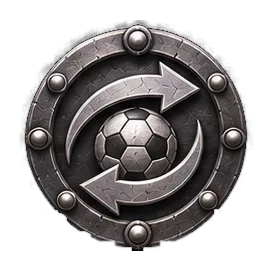
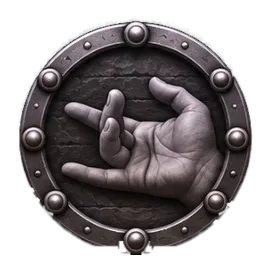
Troca os ícones de Dedinhos do treinador e Golpe de teatro pelas folhas redesenhadas

diff --git a/scripts/achievements_crop.py b/scripts/achievements_crop.py
@@ -23,6 +23,11 @@ Todos os ícones saem no mesmo quadrado e centrados nele, sem mudar de escala:
 uma linha de conquistas não salta de tamanho de um tier para o outro além do
 que o próprio desenho já cresce.
 
+Uma conquista redesenhada depois vem numa folha só dela, com os 10 tiers em
+duas linhas de 5 (ver SUBSTITUICOES). Os ícones dessa folha substituem os das
+folhas por tier e são escalados para a largura mediana das outras conquistas
+no mesmo tier, porque a folha nova desenha-os maiores.
+
 --preview escreve uma folha de contacto com tudo o que foi cortado, num fundo
 da cor do site, para ver de uma vez se algum ícone ficou com texto ou cortado.
 """
@@ -60,6 +65,16 @@ CONQUISTAS = [
     "premios-da-epoca",
 ]
 POR_LINHA = [4, 4, 4, 1]
+
+# Conquistas redesenhadas, cada uma numa folha própria com os 10 tiers por
+# ordem, da madeira ao diamante, em duas linhas de 5.
+SUBSTITUICOES = {
+    "dedinhos-do-treinador": "dedinhos",
+    "golpe-de-teatro": "golpe_teatro",
+}
+POR_LINHA_SUBSTITUICAO = [5, 5]
+# Na folha de uma conquista, a partir deste tier o ícone é crista com brilho.
+PRIMEIRA_CRISTA = 5
 
 # O fundo das folhas anda pelos 6-12 de luminância. Acima disto é desenho.
 LIMIAR = 34
@@ -125,17 +140,17 @@ class Mascara:
         return [sum(self.d[y * w + x] for y in range(y0, y1)) for x in range(x0, x1)]
 
 
-def encontrar_caixas(mascara):
-    """As 13 caixas de ícone+texto, em ordem de leitura, ou None se a grelha não bate."""
+def encontrar_caixas(mascara, por_linha=POR_LINHA):
+    """As caixas de ícone+texto, em ordem de leitura, ou None se a grelha não bate."""
     w, h = mascara.w, mascara.h
     bandas = faixas(mascara.linhas(0, w, 0, h), 6)
     # O título (ausente no ouro) é uma faixa baixa: os ícones têm mais de 200.
     bandas = [b for b in bandas if b[1] - b[0] > 150]
-    if len(bandas) != len(POR_LINHA):
+    if len(bandas) != len(por_linha):
         return None
 
     caixas = []
-    for (y0, y1), esperado in zip(bandas, POR_LINHA):
+    for (y0, y1), esperado in zip(bandas, por_linha):
         cols = faixas(mascara.colunas(0, w, y0, y1), 12)
         if len(cols) != esperado:
             return None
@@ -326,11 +341,12 @@ def recortar(folha, cinza, box, limiar, orla):
 
     icone = rgb.convert("RGBA")
     icone.putalpha(mascara_alfa)
-    bbox = icone.getbbox()
-    icone = icone.crop(bbox)
+    return icone.crop(icone.getbbox())
+
+
+def na_tela(icone):
     if icone.width > LADO or icone.height > LADO:
         sys.exit(f"ícone de {icone.size} não cabe em {LADO}x{LADO}")
-
     tela = Image.new("RGBA", (LADO, LADO), (0, 0, 0, 0))
     tela.paste(icone, ((LADO - icone.width) // 2, (LADO - icone.height) // 2))
     return tela
@@ -371,6 +387,39 @@ def cortar_folha(ficheiro):
     return icones
 
 
+def cortar_folha_de_conquista(ficheiro):
+    """Os 10 tiers de uma conquista numa folha só dela, por ordem.
+
+    Esta folha parte-se sozinha, mas mistura as duas famílias: a linha de cima
+    são discos, que se cortam como as folhas da madeira ao ouro, e a de baixo
+    cristas com brilho, que pedem o limiar alto.
+    """
+    folha = Image.open(caminho_da_folha(ficheiro)).convert("RGB")
+    cinza = folha.convert("L")
+    caixas = encontrar_caixas(Mascara(cinza, LIMIAR), POR_LINHA_SUBSTITUICAO)
+    if not caixas:
+        sys.exit(f"{ficheiro}: a folha não se parte em {POR_LINHA_SUBSTITUICAO}")
+
+    mascaras = {LIMIAR: Mascara(cinza, LIMIAR), LIMIAR_BRILHO: Mascara(cinza, LIMIAR_BRILHO)}
+    icones = []
+    for i, caixa in enumerate(caixas):
+        crista = i >= PRIMEIRA_CRISTA
+        limiar, orla, margem, margem_topo = (LIMIAR_BRILHO, ORLA_BRILHO, 0, 0) if crista else (LIMIAR, ORLA, 10, 4)
+        x0, y0, x1, _ = caixa
+        fim = separar_texto(mascaras[limiar], caixa)
+        box = (x0 - margem, max(0, y0 - margem_topo), x1 + margem, fim + 2)
+        icones.append(recortar(folha, cinza, box, limiar, orla))
+    return icones
+
+
+def ao_tamanho_das_outras(icone, outras):
+    """Escala o ícone para a largura mediana dos outros no mesmo tier."""
+    larguras = sorted(outra.width for outra in outras)
+    alvo = larguras[len(larguras) // 2]
+    escala = alvo / icone.width
+    return icone.resize((alvo, round(icone.height * escala)), Image.LANCZOS)
+
+
 def main():
     parser = argparse.ArgumentParser(description=__doc__.splitlines()[0])
     parser.add_argument("--preview", help="escreve aqui uma folha de contacto com todos os ícones")
@@ -380,11 +429,22 @@ def main():
     for ficheiro, tier in TIERS:
         icones = cortar_folha(ficheiro)
         for conquista, icone in zip(CONQUISTAS, icones):
-            pasta = os.path.join(DESTINO, conquista)
-            os.makedirs(pasta, exist_ok=True)
-            icone.save(os.path.join(pasta, tier + ".png"))
             grelha[(conquista, tier)] = icone
         print(f"{tier}: {len(icones)} ícones")
+
+    for conquista, ficheiro in SUBSTITUICOES.items():
+        icones = cortar_folha_de_conquista(ficheiro)
+        for (_, tier), icone in zip(TIERS, icones):
+            outras = [grelha[(c, tier)] for c in CONQUISTAS if c not in SUBSTITUICOES]
+            grelha[(conquista, tier)] = ao_tamanho_das_outras(icone, outras)
+        print(f"{conquista}: substituída pela folha {ficheiro}")
+
+    for (conquista, tier), icone in grelha.items():
+        tela = na_tela(icone)
+        pasta = os.path.join(DESTINO, conquista)
+        os.makedirs(pasta, exist_ok=True)
+        tela.save(os.path.join(pasta, tier + ".png"))
+        grelha[(conquista, tier)] = tela
 
     if args.preview:
         passo = LADO // 2

diff --git a/CLAUDE.md b/CLAUDE.md
@@ -525,7 +525,10 @@ scripts/achievements_crop.py` cuts them into `assets-src/achievements/<achieveme
 transparent background and the sheet's text thrown away, all on the same 272px square; then
 `build_assets.js` converts them as usual. `--preview <file>` writes a contact sheet of all 130 to check
 the cut. The crest sheets (Platina up) glow too much to split on their own, so their positions come
-from the wood sheet, which shares their layout; the gold sheet has no title and splits on its own.
+from the wood sheet, which shares their layout; the gold sheet has no title and splits on its own. An
+achievement redrawn later comes as a sheet of its own with all 10 tiers in two rows of 5; listed in
+`SUBSTITUICOES`, it replaces that achievement's icons and is scaled to the median width of the other
+achievements in each tier. Dedinhos do treinador and Golpe de teatro come from such sheets.
 
 Twelve originals were lost: the Croatia HNK and HNL trophies (every variant), the two locked World
 Cup trophies, and `goncalo_profile5` and `goncalo_profile6`. Their published `.webp` went back into
